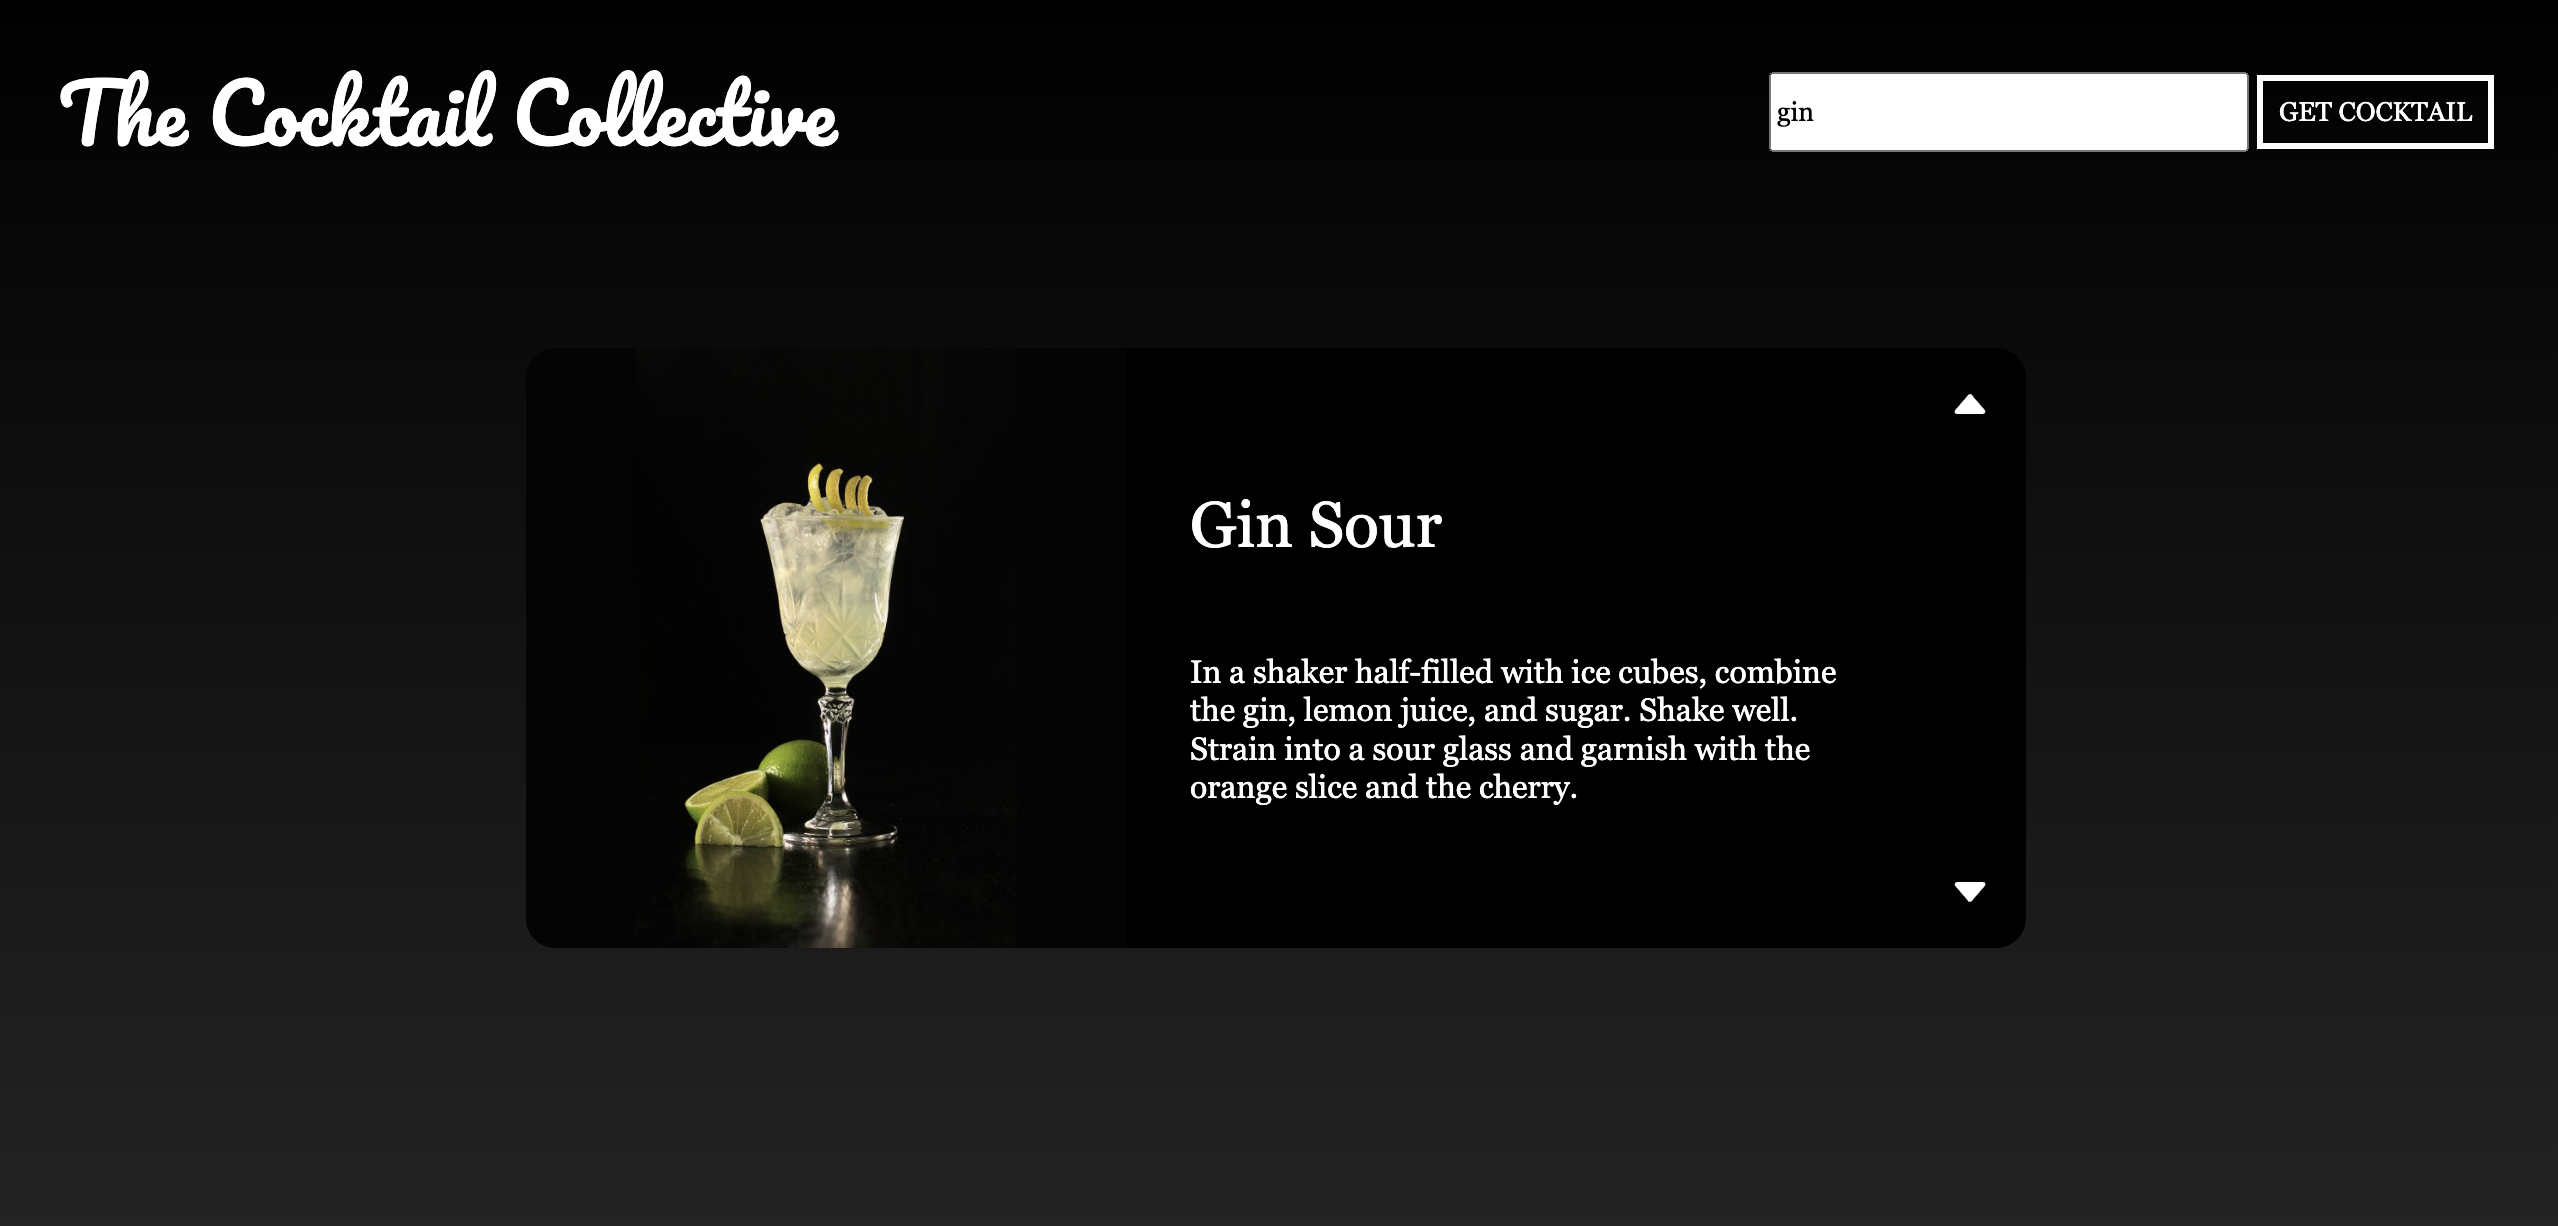
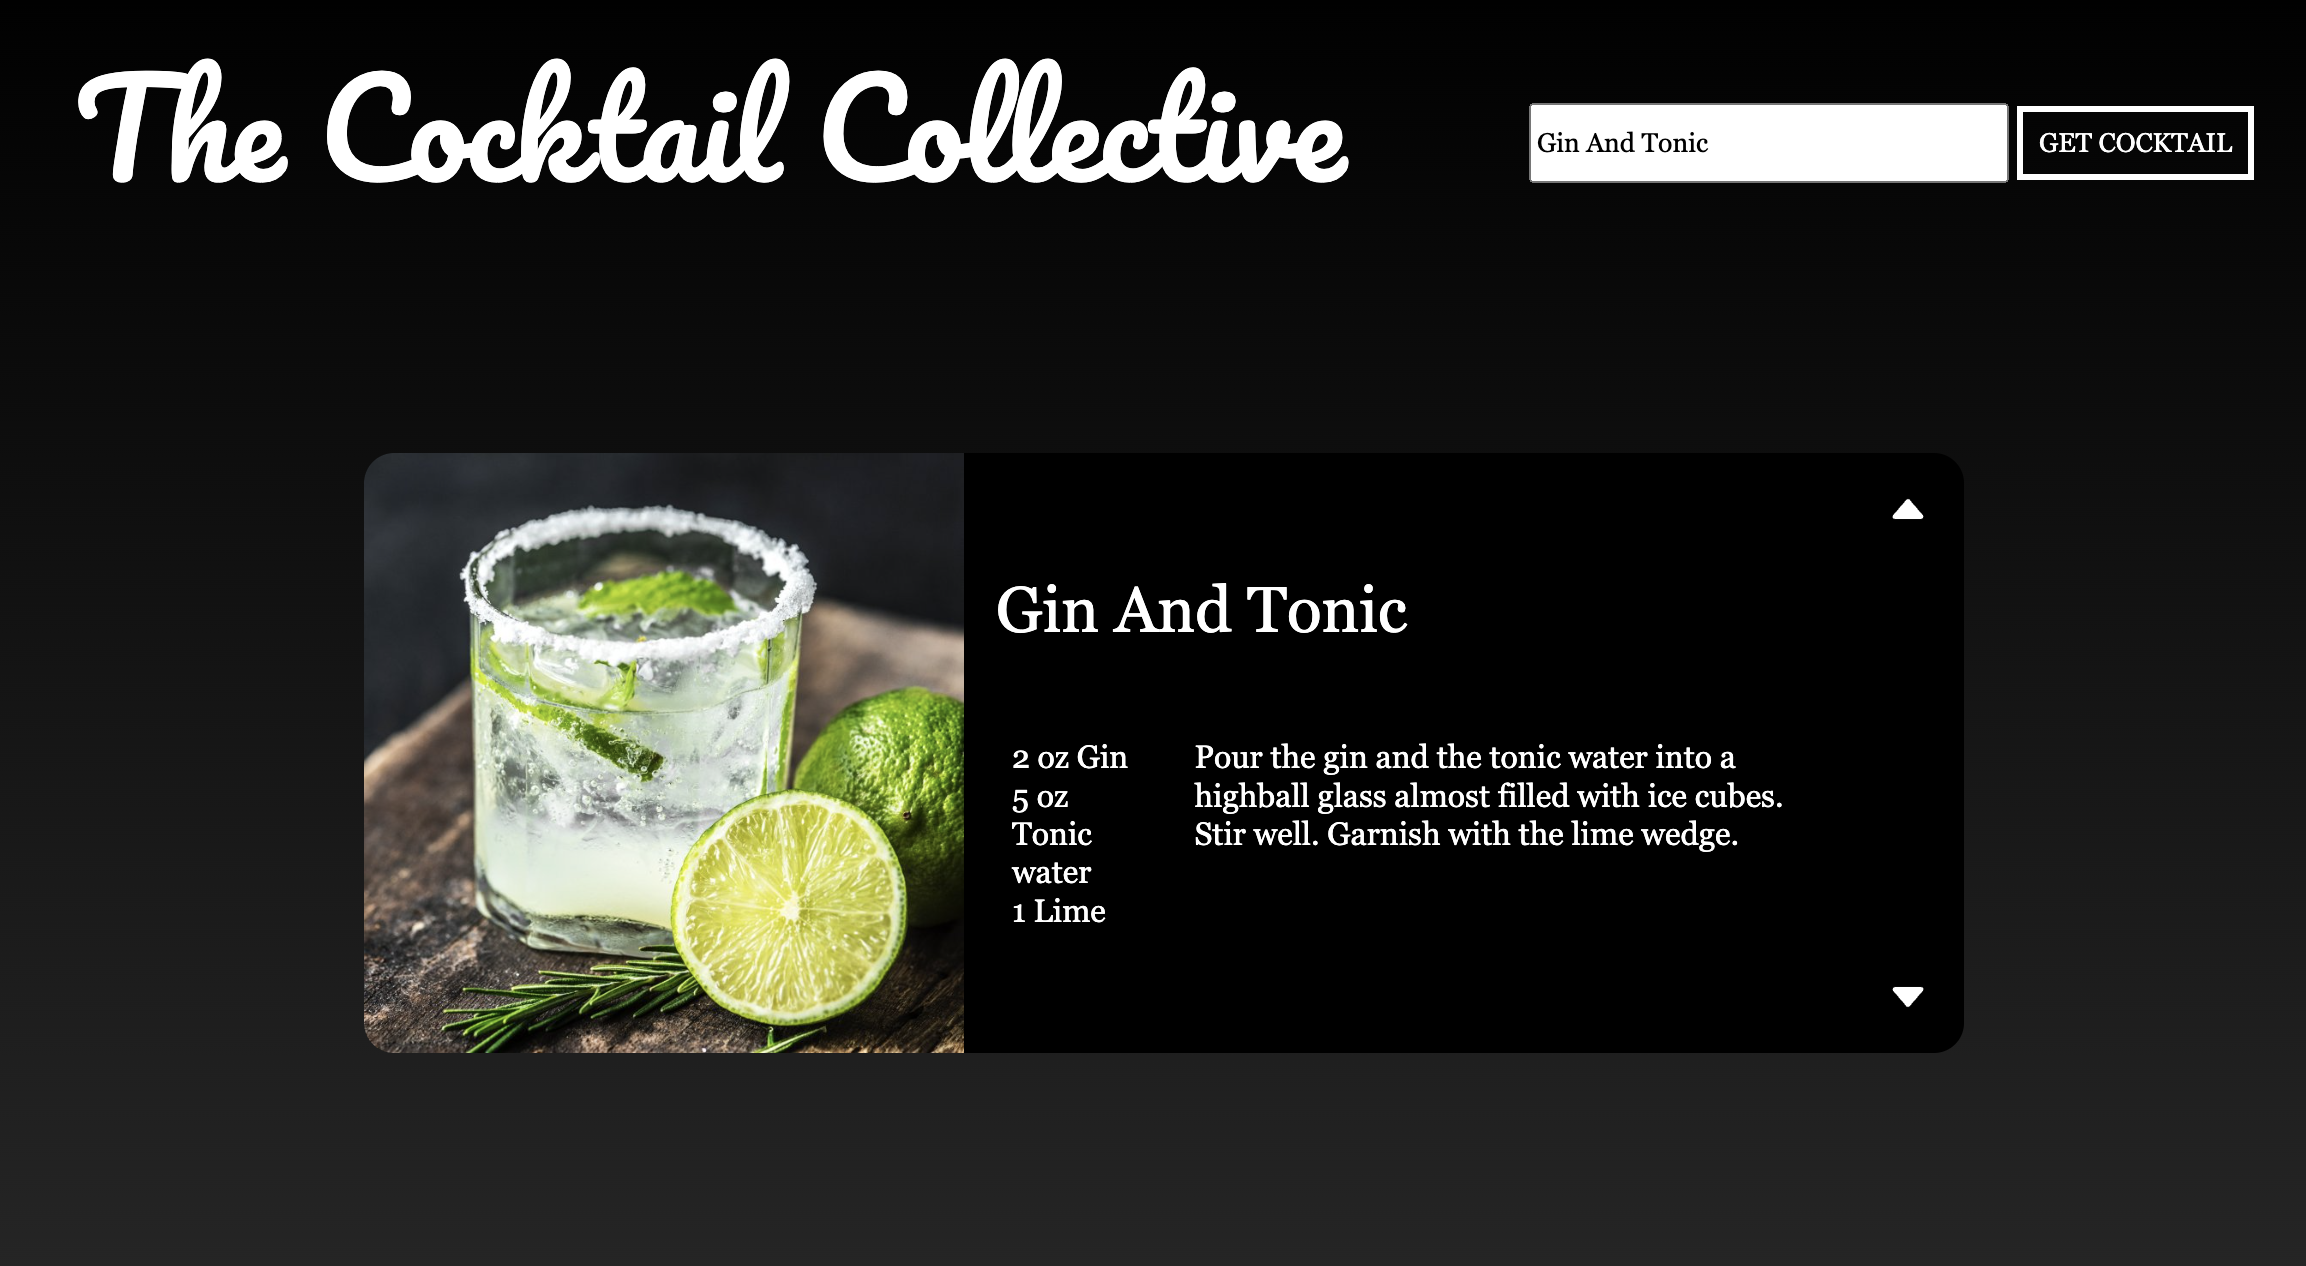
les flèches disparaissent si d'autres boissons ne sont pas disponibles

diff --git a/scripts/main.js b/scripts/main.js
@@ -11,6 +11,7 @@ function fetchData(drink, index) {
   fetch(`https://www.thecocktaildb.com/api/json/v1/1/search.php?s=${drink}`)
     .then((res) => res.json())
     .then((data) => {
+      resetCard()
       let drinkData = data.drinks[index];
       document.querySelector("main").style.display = "flex";
       document.querySelector("h2").innerText = drinkData.strDrink;
@@ -31,6 +32,13 @@ function fetchData(drink, index) {
       document.querySelector("img").src = drinkData.strDrinkThumb;
       document.querySelector(".instructions").innerHTML =
         drinkData.strInstructions;
+    //display arrows if necessary
+    if (data.drinks[index + 1]){
+      nextBtn.style.display = 'block'
+    }
+    if (data.drinks[index - 1]){
+      previousBtn.style.display = 'block'
+    }
     })
     .catch((err) => {
       console.log(`error ${err}`);
@@ -38,7 +46,6 @@ function fetchData(drink, index) {
 }
 
 function displayIngredients(ingredients) {
-  document.querySelector(".ingredients").innerHTML = "";
   ingredients.map((ingredient) => {
     document.querySelector(
       ".ingredients"
@@ -46,6 +53,11 @@ function displayIngredients(ingredients) {
   });
 }
 
+function resetCard(){
+  document.querySelector(".ingredients").innerHTML = "";
+  nextBtn.style.display = 'none'
+  previousBtn.style.display = 'none'
+}
 submitBtn.addEventListener("click", function () {
   index = 0;
   currentDrink = input.value;

diff --git a/styles/style.css b/styles/style.css
@@ -159,6 +159,7 @@ p {
 
 .navigation ion-icon {
   font-size: 1.5rem;
+  display: none;
 }
 
 ion-icon:hover {
